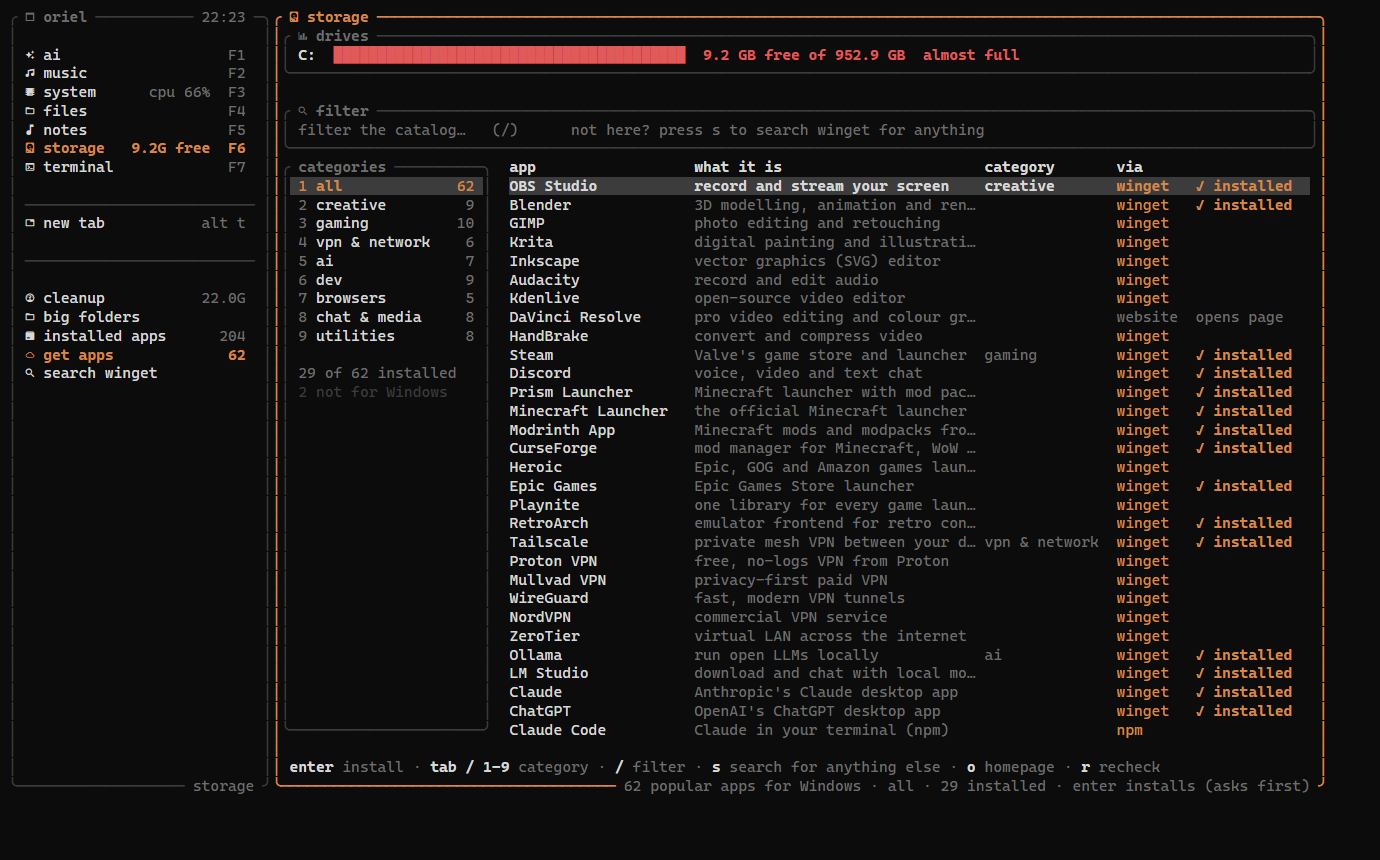
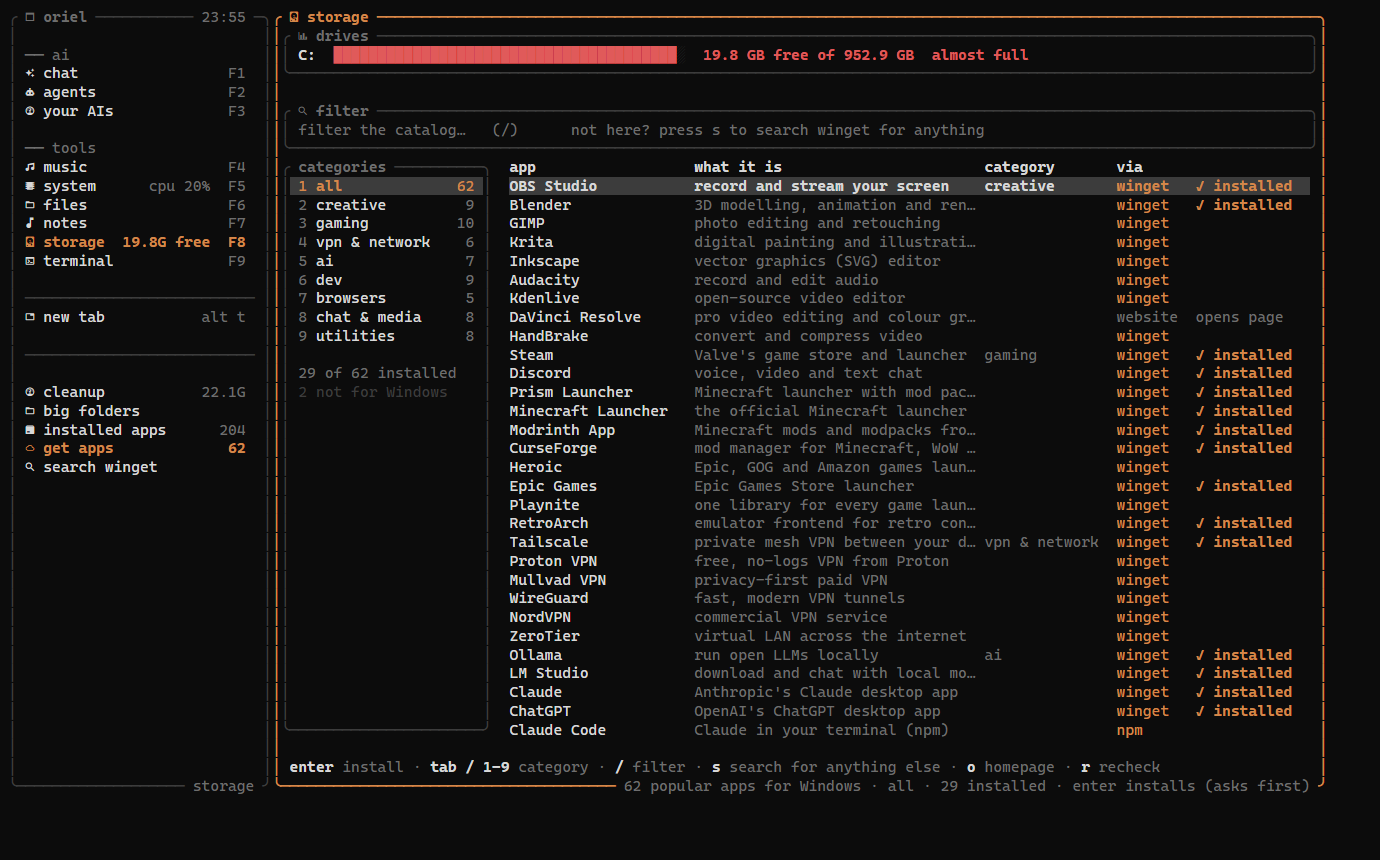
agents orchestrator + your AIs apps merged; README: ai/tools sections, new screenshots

diff --git a/README.md b/README.md
@@ -2,7 +2,7 @@
 
 # oriel
 
-**A fast terminal workspace: AI chat, music, system monitor, files, notes and a real terminal, in one window.**
+**A fast terminal workspace: AI chat, a multi-agent orchestrator, AI usage and limits, music, a system monitor, files, notes and a real terminal, all in one window.**
 
 Tabs and tmux-style split panes · mouse-friendly · a single ~9 MB binary for Linux and Windows
 
@@ -36,15 +36,24 @@ Every app lives in the sidebar. Click one, or press its F-key.
 
 | | App | What it does |
 |---|---|---|
-| F1 | **ai** | Chat with Claude Code, Codex, Ollama, any OpenAI-compatible server, or the Anthropic API, all in one place. Coding agents show their full live transcript as they work: every file read, edit (as a diff), command and output, plus their todo list ticking off. `/perms ask` makes them ask before each change. History is kept, and `/` opens a command menu. |
-| F2 | **music** | Plays your music folder: cover art, a live spectrum, synced lyrics, playlists, shuffle and repeat. `F8` plays/pauses from any app. |
-| F3 | **system** | A task manager. It has a summary, a process list or tree (sort, filter, kill; per-process disk activity), per-core performance graphs, startup apps, services, network connections by process, and system info. |
-| F4 | **files** | A folder tree with previews: highlighted code, images drawn in the terminal, READMEs. |
-| F5 | **notes** | Markdown notes that autosave, with a live preview. |
-| F6 | **storage** | Frees up space: it finds what's safe to clean (caches, temp files, trash), shows the biggest folders, and uninstalls apps. It also has a catalog of 60+ popular apps (OBS, Steam, Minecraft launchers, VPNs, AI apps, dev tools, browsers…) that installs with one key, using winget, pacman/AUR, apt, flatpak or npm to match your system. Nothing is deleted or installed without asking. |
-| F7 | **terminal** | A real shell. Split it next to anything. |
+| | **ai** | |
+| F1 | **chat** | Chat with Claude Code, Codex, Ollama, any OpenAI-compatible server, or the Anthropic API. Coding agents show their full live transcript as they work: every file read, edit (as a diff), command and output, plus their todo list ticking off. `/perms ask` makes them ask before each change. History is kept, and `/` opens a command menu. |
+| F2 | **agents** | An orchestrator for several coding agents at once. Each task gets its own git worktree and a Claude Code or Codex tab. A board shows todo / running / blocked / review / done, with the cost of each task. You get a notification when an agent needs you, then review its diff (with a conflict check) and squash-merge or discard it. `P` has a lead agent plan the tasks for you. |
+| F3 | **your AIs** | Everything about your AI tools in one place. It shows which coding CLIs are installed and signed in, and installs or signs in to 13 of them with one key: Claude Code, Codex, Kimi, Gemini, OpenCode, Aider, Copilot, Cursor, Qwen, Amp, Droid, Crush and Goose. It also shows your real plan limits with reset countdowns, token use and cost per day, and has token-saver presets. |
+| | **tools** | |
+| F4 | **music** | Plays your music folder: cover art, a live spectrum, synced lyrics, playlists, shuffle and repeat. `F12` plays/pauses from any app. |
+| F5 | **system** | A task manager. It has a summary, a process list or tree (sort, filter, kill; per-process disk activity), per-core performance graphs, startup apps, services, network connections by process, and system info. |
+| F6 | **files** | A folder tree with previews: highlighted code, images drawn in the terminal, READMEs. |
+| F7 | **notes** | Markdown notes that autosave, with a live preview. |
+| F8 | **storage** | Frees up space: it finds what's safe to clean (caches, temp files, trash), shows the biggest folders, and uninstalls apps. It also has a catalog of 60+ popular apps (OBS, Steam, Minecraft launchers, VPNs, AI apps, dev tools, browsers…) that installs with one key, using winget, pacman/AUR, apt, flatpak or npm to match your system. Nothing is deleted or installed without asking. |
+| F9 | **terminal** | A real shell. Split it next to anything. |
 
 ![a Claude Code run: todos, edits as diffs, command output (dracula theme)](docs/screenshot-agent.png)
+
+<p align="center">
+  <img src="docs/screenshot-agents.png" width="49%" alt="the agents board">
+  <img src="docs/screenshot-ais.png" width="49%" alt="your AIs: limits, usage, installs">
+</p>
 
 <p align="center">
   <img src="docs/screenshot-system.png" width="49%" alt="the system app">
@@ -55,7 +64,7 @@ Every app lives in the sidebar. Click one, or press its F-key.
 
 | Key | Does |
 |---|---|
-| `F1`–`F7` | switch apps |
+| `F1`–`F9` | switch apps (`F12` plays/pauses music) |
 | `alt p` | the palette: every app, action and theme, searchable |
 | `alt n` | open a terminal beside the current pane |
 | `alt t` / `alt 1-9` | new tab / go to tab |
